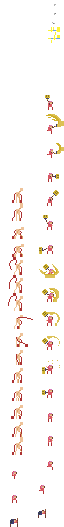
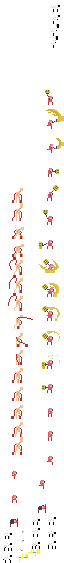
add sheep entity

diff --git a/src/commonMain/kotlin/com/lehaine/game/entity/Sheep.kt b/src/commonMain/kotlin/com/lehaine/game/entity/Sheep.kt
@@ -14,11 +14,11 @@ import com.soywiz.korge.view.anchor
 import com.soywiz.korma.geom.Anchor
 import com.soywiz.korui.UiContainer
 
-fun Container.longArm(
+fun Container.sheep(
     cx: Int, cy: Int,
     level: GenericGameLevelComponent<LevelMark>,
-    callback: LongArm.() -> Unit = {}
-): LongArm = LongArm(
+    callback: Sheep.() -> Unit = {}
+): Sheep = Sheep(
     level = level,
     platformerDynamicComponent = PlatformerDynamicComponentDefault(
         levelComponent = level,
@@ -35,11 +35,11 @@ fun Container.longArm(
         anchorY = 1.0,
     ),
     targetComponent = TargetComponentDefault(),
-    healthComponent = HealthComponentDefault(50),
-    dangerousComponent = DangerousComponentDefault(10)
+    healthComponent = HealthComponentDefault(25),
+    dangerousComponent = DangerousComponentDefault(5)
 ).addTo(this).addToLevel().also(callback)
 
-class LongArm(
+class Sheep(
     level: GenericGameLevelComponent<LevelMark>,
     platformerDynamicComponent: PlatformerDynamicComponent,
     spriteComponent: SpriteComponent,
@@ -60,13 +60,13 @@ class LongArm(
         private const val IDLE = "idle"
     }
 
-    private sealed class LongArmState {
-        object Idle : LongArmState()
-        object Attack : LongArmState()
-        object MovingToHero : LongArmState()
+    private sealed class SheepState {
+        object Idle : SheepState()
+        object Attack : SheepState()
+        object MovingToHero : SheepState()
 
-        object NoAffects : LongArmState()
-        object Stunned : LongArmState()
+        object NoAffects : SheepState()
+        object Stunned : SheepState()
     }
 
 
@@ -78,31 +78,31 @@ class LongArm(
             visible = false
         }
     }
-    private val moveSpeed = 0.015
+    private val moveSpeed = 0.02
 
 
     private val attackingHero get() = distGridTo(level.hero) <= 3 && !cd.has(ATTACK_CD)
 
-    private val entityFSM = stateMachine<LongArmState>(LongArmState.NoAffects) {
-        state(LongArmState.Stunned) {
+    private val entityFSM = stateMachine<SheepState>(SheepState.NoAffects) {
+        state(SheepState.Stunned) {
             transition {
                 when {
-                    hasAffect(Affect.STUN) -> LongArmState.Stunned
-                    else -> LongArmState.NoAffects
+                    hasAffect(Affect.STUN) -> SheepState.Stunned
+                    else -> SheepState.NoAffects
                 }
             }
             begin {
                 affectIcon.playAnimationLooped(Assets.stunIcon)
                 affectIcon.visible = true
-                sprite.playAnimationLooped(Assets.longArmStunned)
+                sprite.playAnimationLooped(Assets.sheepStunned)
             }
         }
 
-        state(LongArmState.NoAffects) {
+        state(SheepState.NoAffects) {
             transition {
                 when {
-                    hasAffect(Affect.STUN) -> LongArmState.Stunned
-                    else -> LongArmState.NoAffects
+                    hasAffect(Affect.STUN) -> SheepState.Stunned
+                    else -> SheepState.NoAffects
                 }
             }
             begin {
@@ -117,49 +117,49 @@ class LongArm(
 
     }
 
-    private val controlFSM = stateMachine<LongArmState>(LongArmState.Idle) {
-        state(LongArmState.MovingToHero) {
+    private val controlFSM = stateMachine<SheepState>(SheepState.Idle) {
+        state(SheepState.MovingToHero) {
             transition {
                 when {
-                    attackingHero -> LongArmState.Attack
-                    else -> LongArmState.MovingToHero
+                    attackingHero -> SheepState.Attack
+                    else -> SheepState.MovingToHero
                 }
 
             }
             begin {
-                sprite.playAnimationLooped(Assets.longArmWalk)
+                sprite.playAnimationLooped(Assets.sheepWalk)
             }
             update {
                 moveTo(platformerDynamicComponent, spriteComponent, level.hero.cx, level.hero.cy, moveSpeed * tmod)
             }
 
         }
-        state(LongArmState.Attack) {
+        state(SheepState.Attack) {
             transition {
                 when {
-                    cd.has(ANIM_PLAYING) -> LongArmState.Attack
-                    else -> LongArmState.Idle
+                    cd.has(ANIM_PLAYING) -> SheepState.Attack
+                    else -> SheepState.Idle
                 }
             }
             begin {
                 dir = dirTo(level.hero)
-                sprite.playOverlap(Assets.longArmSwing, onAnimationFrameChange = {
-                    if (it == 7) {
+                sprite.playOverlap(Assets.sheepAttack, onAnimationFrameChange = {
+                    if (it == 8) {
                         attemptToAttackHero()
                     }
                 })
-                cd(ANIM_PLAYING, Assets.longArmSwing.duration)
+                cd(ANIM_PLAYING, Assets.sheepWalk.duration)
                 cd(ATTACK_CD, 3.seconds)
             }
 
         }
-        state(LongArmState.Idle) {
+        state(SheepState.Idle) {
             var playingAnim = false
             transition {
                 when {
-                    cd.has(IDLE) -> LongArmState.Idle
-                    attackingHero -> LongArmState.Attack
-                    else -> LongArmState.MovingToHero
+                    cd.has(IDLE) -> SheepState.Idle
+                    attackingHero -> SheepState.Attack
+                    else -> SheepState.MovingToHero
                 }
             }
             begin {
@@ -168,7 +168,7 @@ class LongArm(
             }
             update {
                 if (!playingAnim && !cd.has(ANIM_PLAYING)) {
-                    sprite.playAnimationLooped(Assets.longArmIdle)
+                    sprite.playAnimationLooped(Assets.sheepIdle)
                     playingAnim = true
                 }
             }

diff --git a/src/commonMain/kotlin/com/lehaine/game/Assets.kt b/src/commonMain/kotlin/com/lehaine/game/Assets.kt
@@ -32,6 +32,11 @@ object Assets {
     lateinit var longArmStunned: SpriteAnimation
     lateinit var longArmWalk: SpriteAnimation
 
+    lateinit var sheepIdle: SpriteAnimation
+    lateinit var sheepAttack: SpriteAnimation
+    lateinit var sheepStunned: SpriteAnimation
+    lateinit var sheepWalk: SpriteAnimation
+
     lateinit var stunIcon: SpriteAnimation
 
     object Sfx {
@@ -79,6 +84,11 @@ object Assets {
         longArmSwing = tiles.getSpriteAnimation("longArmSwing", 100.milliseconds)
         longArmStunned = tiles.getSpriteAnimation("longArmStunned", 500.milliseconds)
         longArmWalk = tiles.getSpriteAnimation("longArmWalk", 100.milliseconds)
+
+        sheepIdle = tiles.getSpriteAnimation("sheepIdle", 500.milliseconds)
+        sheepAttack = tiles.getSpriteAnimation("sheepAttack", 100.milliseconds)
+        sheepStunned = tiles.getSpriteAnimation("sheepStunned", 500.milliseconds)
+        sheepWalk = tiles.getSpriteAnimation("sheepWalk", 100.milliseconds)
 
         stunIcon = tiles.getSpriteAnimation("stunIcon", 200.milliseconds)
 

diff --git a/src/commonMain/kotlin/com/lehaine/game/entity/EnemySpawner.kt b/src/commonMain/kotlin/com/lehaine/game/entity/EnemySpawner.kt
@@ -8,6 +8,7 @@ import com.lehaine.kiwi.component.addToLevel
 import com.soywiz.klock.TimeSpan
 import com.soywiz.klock.seconds
 import com.soywiz.korge.view.Container
+import kotlin.random.Random
 
 fun Container.enemySpawner(level: GenericGameLevelComponent<LevelMark>): EnemySpawner =
     EnemySpawner(level).addTo(this).addToLevel()
@@ -17,6 +18,7 @@ class EnemySpawner(override val level: GenericGameLevelComponent<LevelMark>) : L
     companion object {
         const val SPAWN_CD = "spawnCD"
     }
+
 
     override fun update(dt: TimeSpan) {
         super.update(dt)
@@ -30,7 +32,12 @@ class EnemySpawner(override val level: GenericGameLevelComponent<LevelMark>) : L
     fun spawn() {
         level.camera.content.apply {
             val spawn = level.spawnPoints.random()
-            longArm(spawn.cx, spawn.cy, level)
+            val rng = Random.nextFloat()
+            if (rng > 0.5) {
+                longArm(spawn.cx, spawn.cy, level)
+            } else {
+                sheep(spawn.cx, spawn.cy, level)
+            }
         }
     }
 
